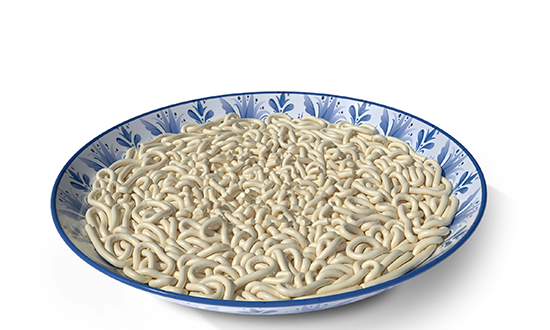
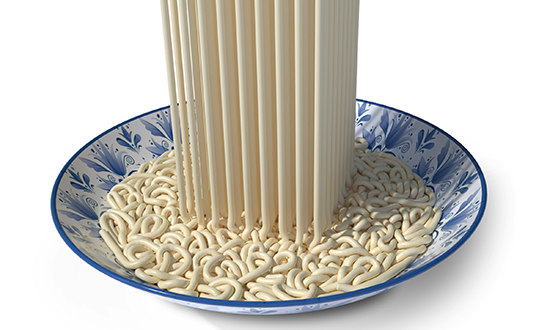
Update certain source code URLs

diff --git a/publications.html b/publications.html
@@ -57,7 +57,7 @@ body,td,th {
 						    SIGGRAPH North America, 2026.
 						   <br>
 						   <br>
-						   <a href="publications/2026-Liu-NUV.pdf">[Paper 48M]</a><a href="">[Code (to appear)]</a>
+						   <a href="publications/2026-Liu-NUV.pdf">[Paper 48M]</a><a href="https://github.com/peridyno/peridyno/tree/master/examples/Cuda/UnifiedFluid">[Code]</a>
 						</p></div></div></div></div></div></div>
 					<div class="w-dyn-item"><div class="post-wrapper"><div class="post-content"><div class="w-row"><div class="w-col w-col-4 w-col-medium-4"><a class="blog-image w-inline-block" style="background-image: url('publications/2026-Liu-SAM.png');"></a></div><div class="w-col w-col-8 w-col-medium-8"><a class="blog-title-link w-inline-block"><h2 class="blog-title">A Semi-Analytical Energy Model for Particle-Based Fluid Simulation Involving Complex Moving Boundaries</h2></a><div class="details-wrapper">
 						<div class="post-info">Junyuan Liu, <a href="https://dreliveam.github.io/">Shusen Liu</a>, Yuzhong Guo, Ruikai Liang, Ying Li, <a href="http://peridynamics.com/"><strong>Xiaowei He</strong></a></div>
@@ -201,7 +201,7 @@ body,td,th {
 						   IEEE Transactions on Visualization & Computer Graphics (TVCG), 2021.
 						   <br>
 						   <br>
-						   <a href="publications/2021-Liu-ASA.pdf">[Paper 36M]</a> <a href="https://www.bilibili.com/video/BV1jK4y1p7gS/">[Bilibi Video]</a> <a href="" target="_blank">[To appear]</a>
+						   <a href="publications/2021-Liu-ASA.pdf">[Paper 36M]</a> <a href="https://www.bilibili.com/video/BV1jK4y1p7gS/">[Bilibi Video]</a> <a href="https://github.com/peridyno/peridyno/tree/master/src/Dynamics/Cuda/ParticleSystem/Projection">[Code]</a>
 						</p></div></div></div></div></div></div>
 					<div class="w-dyn-item"><div class="post-wrapper"><div class="post-content"><div class="w-row"><div class="w-col w-col-4 w-col-medium-4"><a class="blog-image w-inline-block" style="background-image: url('publications/2020-Chang-SAS.png');"></a></div><div class="w-col w-col-8 w-col-medium-8"><a class="blog-title-link w-inline-block"><h2 class="blog-title">Semi-analytical Solid Boundary Conditions for Free Surface Flows</h2></a><div class="details-wrapper">
 						<div class="post-info">Yue Chang, Shusen Liu, <a href="http://peridynamics.com/"><strong>Xiaowei He</strong></a>, <a href="http://www.graphics.pku.edu.cn/members/lisheng/index.htm">Sheng Li</a>, <a href="http://www.graphics.pku.edu.cn/xztd/jgfaculty/wgp2/index.htm#CN_intro">Guoping Wang</a></div>
